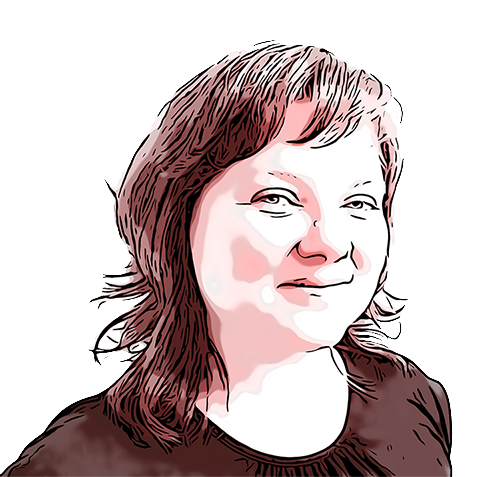
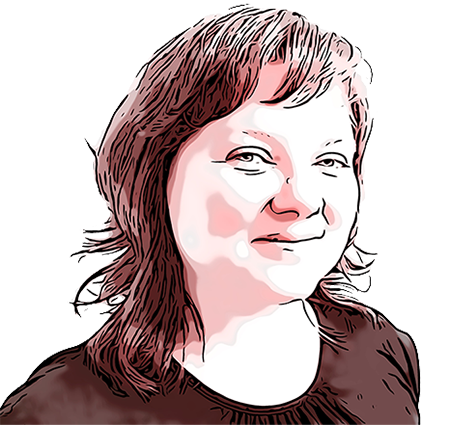
home page content loaded

diff --git a/index.html b/index.html
@@ -15,19 +15,21 @@
         <!-- Main Content -->
         <main class="container-fluid">
           <h1 class="visually-hidden">Home</h1>
-          <div>
-            <img src="./Assets/sarah-lochhead-headshot-clip2comic.png" alt="Headshot of Sarah Lochhead with a comic book like sketch filter applied.">
-          <!-- Image source: Sketch filter created using Clip2Comic app https://www.digitalmasterpieces.com/clip2comic/#  -->
-          </div>
-          <section>
-            <h2>Breathing Creativity Into Your Brand</h2>
-            <p>You're a passionate hard working person with a bold vision for your bespoke business. You deserve digital solutions as unique as you are!</p>
-            <p>My background in art and contemporary dance offers a unique perspective on web development — one that centers on the user’s experience while remaining playful and imaginative. As a Tech Steward,  my work  is centered on technology as a force of good in the world. I'm passionate about accessibility, digital literacy, relationship building and creating community through my work.</p>
-            <p>Let's work together to create a digital experience that fulfills what you've always imagined.</p>
-            <div>
-              <a class="btn">Let's Connect</a>
-            </div>
-          </section>
+          <div class="container">
+            <div class="row">
+              <div class="col">
+                <img src="./Assets/sarah-lochhead-headshot-clip2comic.png" alt="Headshot of Sarah Lochhead with a comic book like sketch filter applied.">
+              <!-- Image source: Sketch filter created using Clip2Comic app https://www.digitalmasterpieces.com/clip2comic/#  -->
+              </div>
+              <section class="col">
+                <h2>Breathing Creativity Into Your Brand</h2>
+                <p>You're a passionate hard working person with a bold vision for your bespoke business. You deserve digital solutions as unique as you are!</p>
+                <p>My background in art and contemporary dance offers a unique perspective on web development — one that centers on the user’s experience while remaining playful and imaginative. As a Tech Steward,  my work  is centered on technology as a force of good in the world. I'm passionate about accessibility, digital literacy, relationship building and creating community through my work.</p>
+                <p>Let's work together to create a digital experience that fulfills what you've always imagined.</p>
+                <p><a class="btn">Let's Connect</a></p> 
+              </section>
+            </div><!--.row-->
+        </div><!--.container-->
         </main>
         <!-- Main Footer -->
         <footer></footer>
